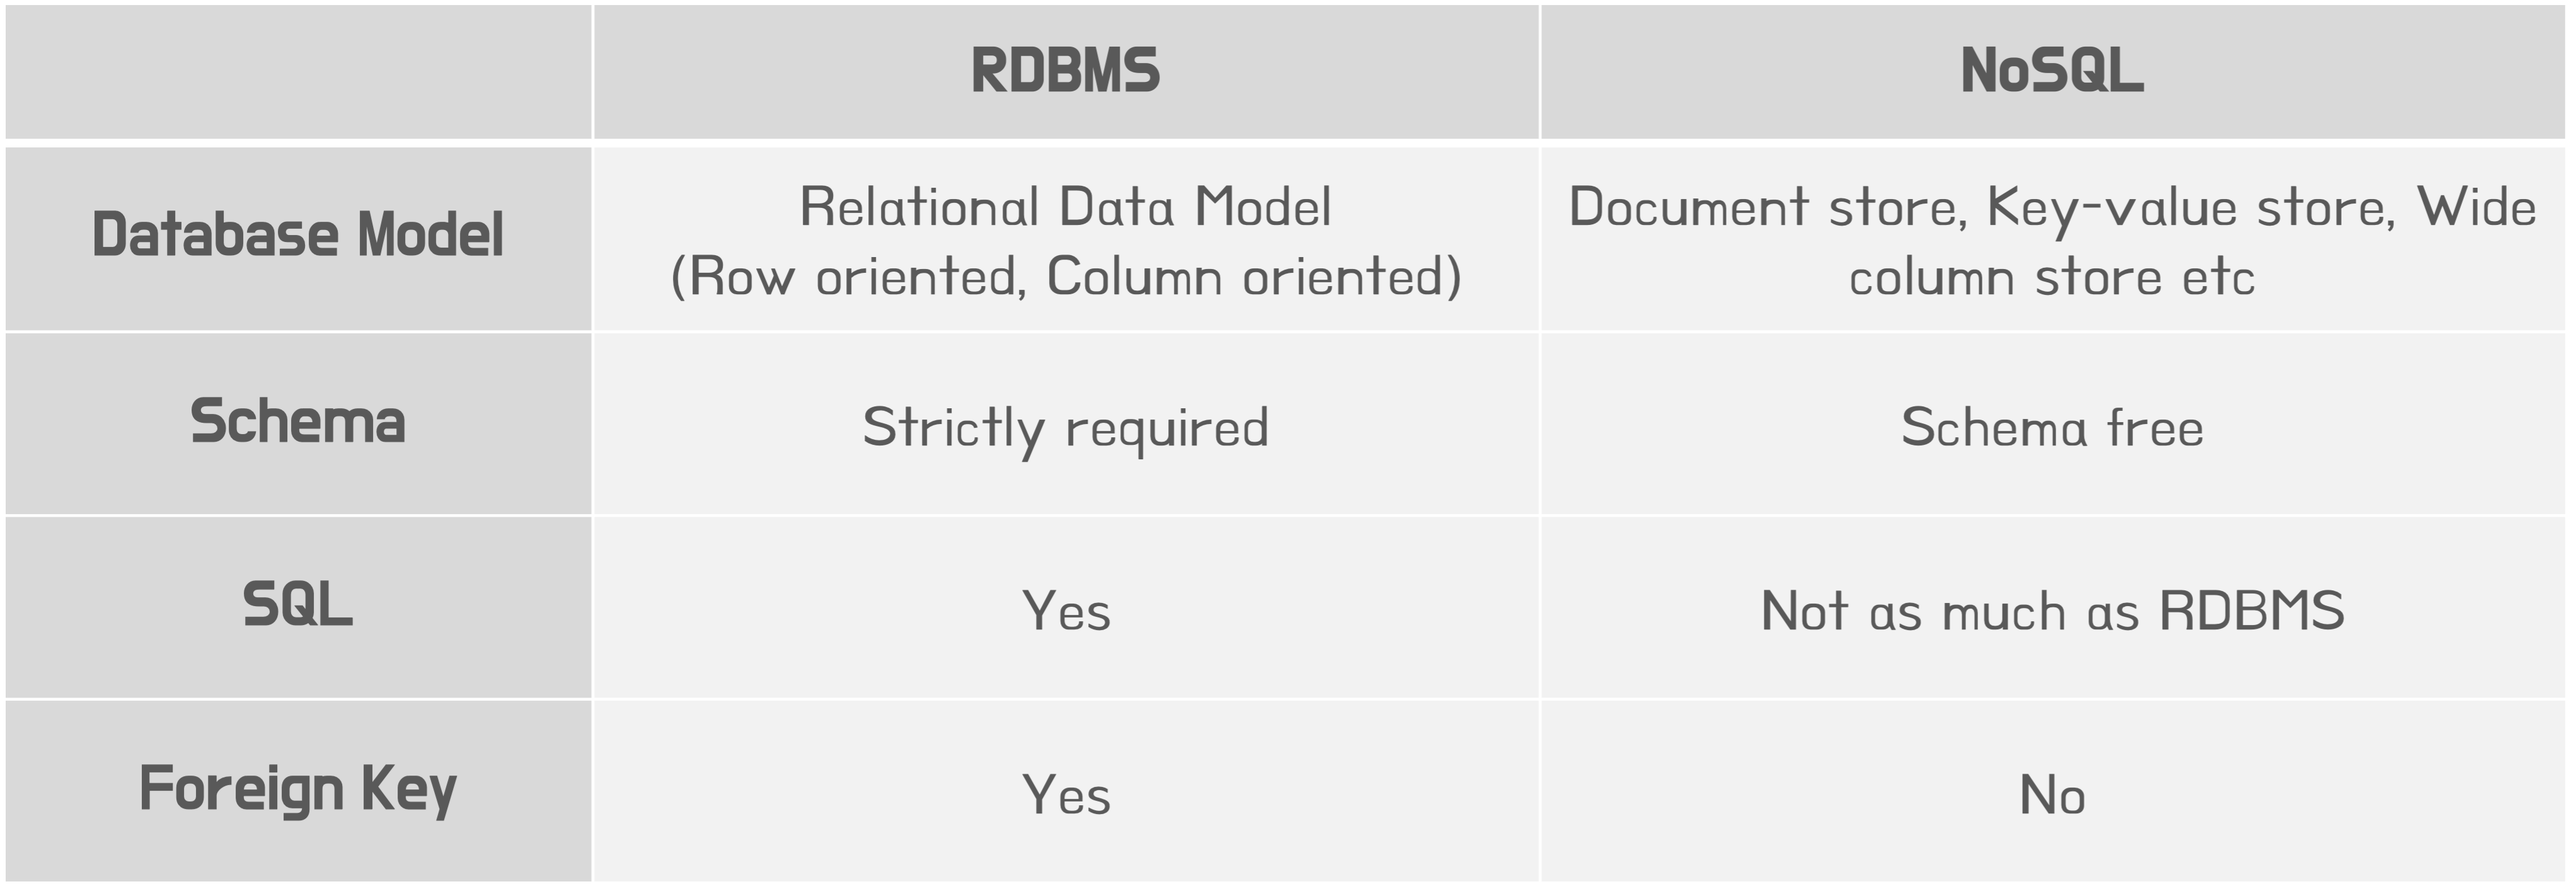
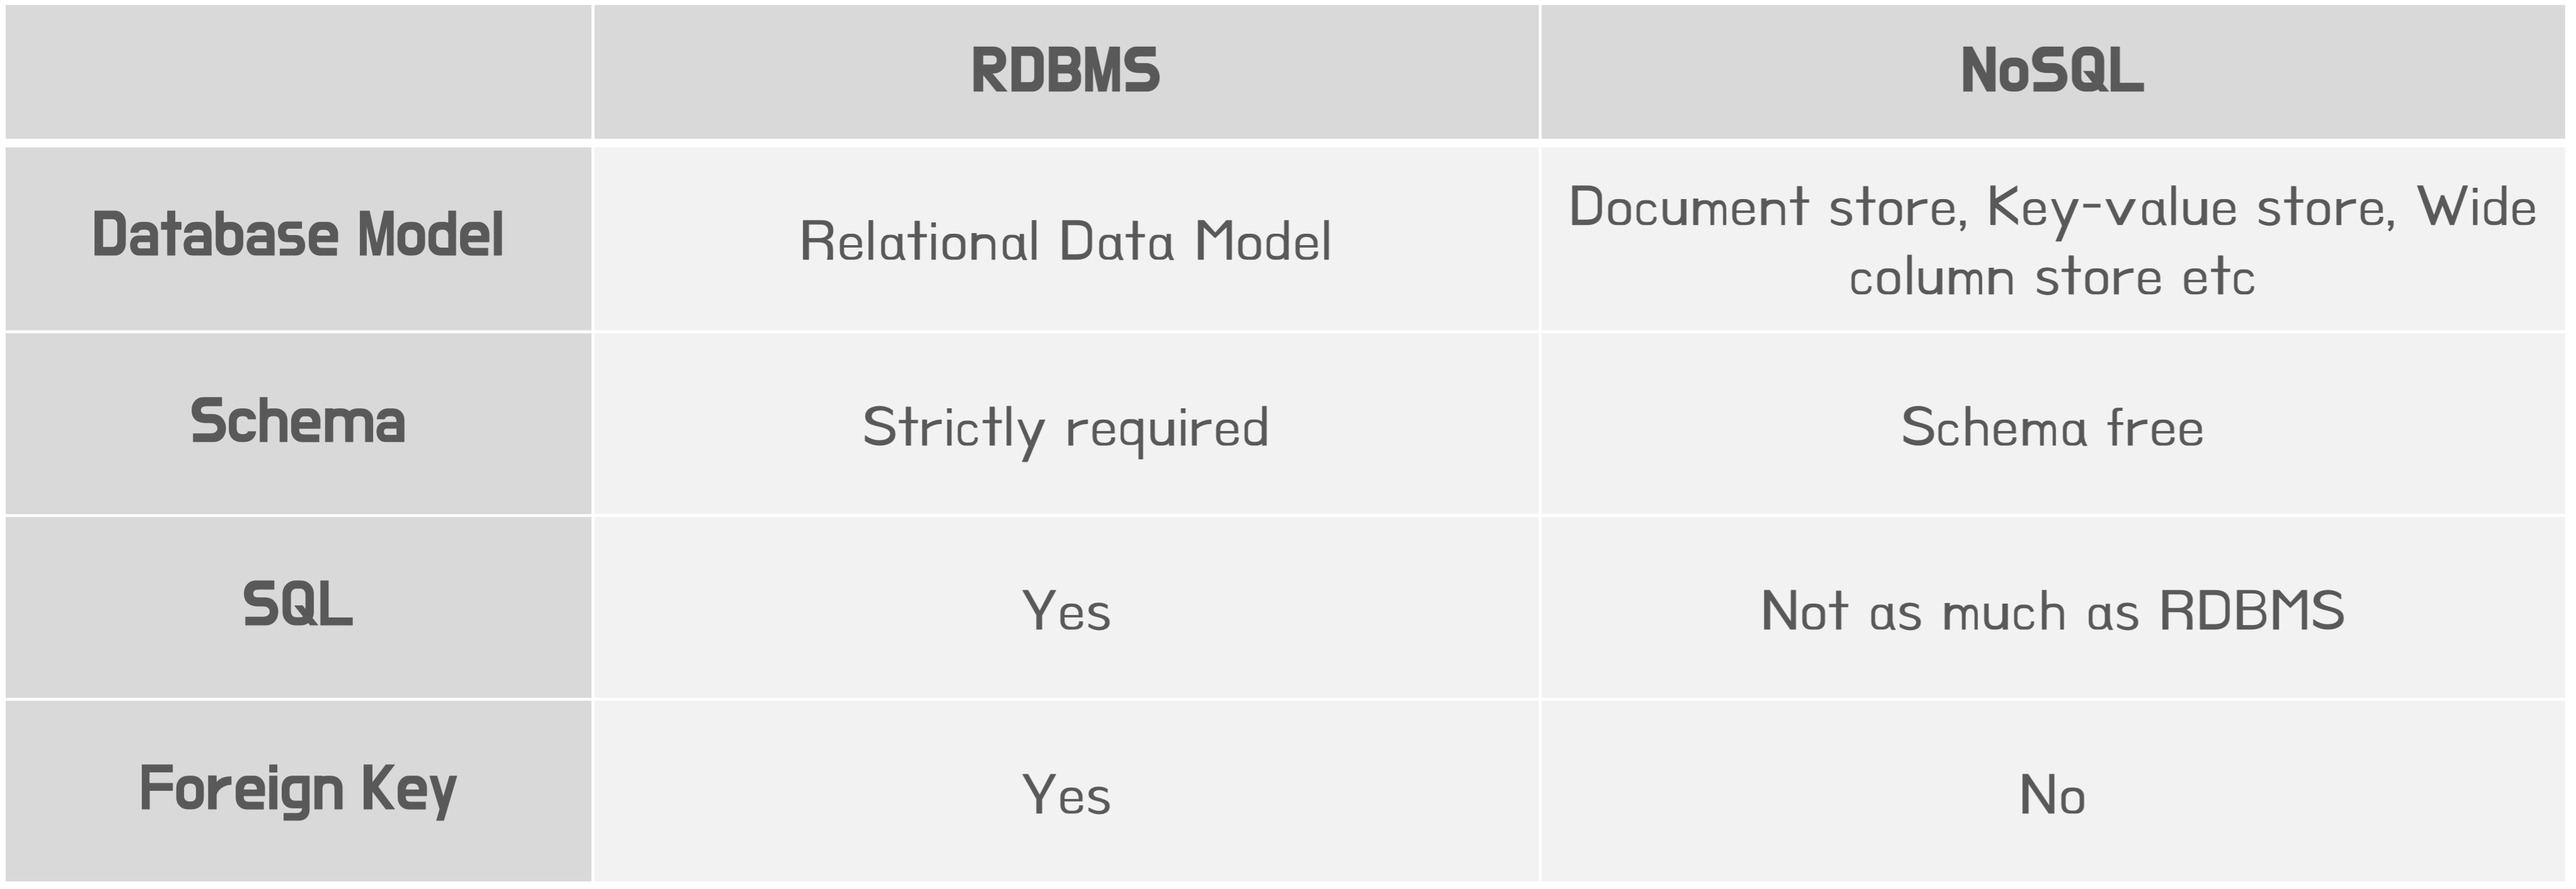
update blog

Changed region(s): [[0.2485, 0.1871, 0.5592, 0.343]]

diff --git a/_posts/data_engineering/2022-04-05-data-engineering-series4.md b/_posts/data_engineering/2022-04-05-data-engineering-series4.md
@@ -87,6 +87,8 @@ In-memory databases are ideal for applications that require microsecond response
 - RDBMS가 Scale-Out이 가능한지에 관한 답은 CAP 이론을 공부해야함
 - Relational databases are designed to run on a single server in order to maintain the integrity of the table mappings and avoid the problems of distributed computing.
 - RDBMS가 Scale-out이 힘들다면 Redshift는 뭐지?
+- Redshift는 Columnar database라서 scale-out이 쉽게 가능
+- (Columnar databases are like NoSQL databases, in the fact that they are designed to scale “out” using distributed clusters of low-cost hardware to increase throughput)
 
 Today, the evolution of relational databases allows them to use more complex architectures, relying on a “master-slave” model in which the “slaves” are additional servers that can handle parallel processing and replicated data, or data that is “sharded” (divided and distributed among multiple servers, or hosts) to ease the workload on the master server.  
 
@@ -102,6 +104,22 @@ Using this approach, a NoSQL database can operate across hundreds of servers, pe
 
 Massive scale is impressive, but what is perhaps even more important is elasticity. Not all NoSQL databases are elastic. MarkLogic has a unique architecture that make it possible to quickly and easily add or remove nodes in a cluster so that the database stays in line with performance needs. There is not any complex sharding of data or architectural workarounds—data is automatically rebalanced across a cluster when nodes are added or removed. This also makes administration much easier, making it possible for one DBA to manage for data and with fewer headaches.  
 
+
+## Row Based vs Columnar
+
+- Row Based DB는 OLTP에 적합
+  - record단위로 데이터가 발생할 때 이를 하나의 메모리 블럭에 저장 -> 빠른 쓰기 작업
+  - 단점은 특정 컬럼값이 모두 필요한 경우 모든 메모리 블럭에 접근해야함 -> 느린 분석
+  - ex. MySQL, PostgreSQL, Oracle 등
+- Columnar DB는 OLAP에 적합
+  - 분석은 특정 컬럼에 있는 모든 값을 이용하는 경우 많음
+  - 같은 컬럼에 있는 값을 하나의 메모리 블럭에 저장하면 Random I/O을 줄일 수 있음
+  - 또 하나의 메모리 블럭에 같은 타입의 값만 저장하면 DB는 그 타입에 맞는 특별한 압축 방식을 제공해 줄 수 있음
+  - 단점은 record단위로 발생하는 데이터를 컬럼별로 따로 저장하기 위해 쓰기 작업시 컬럼 개수만큼 더 많은 I/O 작업 발생
+  - ex. AWS Redshift, Google Big Query, Apache HBase 등
+
+- 웹 서비스에 붙어있는 DB로는 OLTP를 위한 Row based DB가 적합하고, 이 데이터를 분석팀에게 제공할 때는 Columnar DB에 저장해서 전달해 주는 것이 좋다.
+- Columnar는 Scale-Out을 쉽게 만들어준다.
 
 # 주요 데이터베이스간 비교
 
@@ -131,3 +149,7 @@ Massive scale is impressive, but what is perhaps even more important is elastici
 - [What Keeps Relational Databases From Horizontal Scaling?](https://stackoverflow.com/questions/48825977/what-keeps-relational-databases-from-horizontal-scaling){:target="_blank"}
 - [MATT ALLEN, Relational Databases Are Not Designed For Scale](https://www.marklogic.com/blog/relational-databases-scale/){:target="_blank"}
 - [JBee, Scale Up, Scale Out, Sharding](https://asfirstalways.tistory.com/66)
+- [HEAVIY.AI, Columnar Database](heavy.ai/technical-glossary/columnar-database){:target="_blank"}
+- [indicative, What Is A Columnar Database?](https://www.indicative.com/resource/columnar-database/){:target="_blank"}
+- [sentinelone, Understanding Row- vs Column-Oriented Databases](https://www.sentinelone.com/blog/understanding-row-vs-column-oriented-databases/){:target="_blank"}
+- [Youtube: Tech Dummies Narendra L, How row oriented and column oriented db works?](https://www.youtube.com/watch?v=uMkVi4SDLbM&t=180s){:target="_blank"}

diff --git a/_posts/data_engineering/2022-07-09-data-engineering-series12.md b/_posts/data_engineering/2022-07-09-data-engineering-series12.md
@@ -35,3 +35,4 @@ Purpose-built databases address different workloads, including online transactio
 - [분석을 위해 등장한 데이터베이스, OLAP 따라잡기](https://www.ciokorea.com/news/225564){:target="_blank"}
 - [OLAP이란?](https://brunch.co.kr/@qqplot/27){:target="_blank"}
 - [What Is an OLTP Database?](https://phoenixnap.com/kb/oltp-database){:target="_blank"}
+- [Youtube: Tech Dummies Narendra L, How row oriented and column oriented db works?](https://www.youtube.com/watch?v=uMkVi4SDLbM&t=180s){:target="_blank"}
